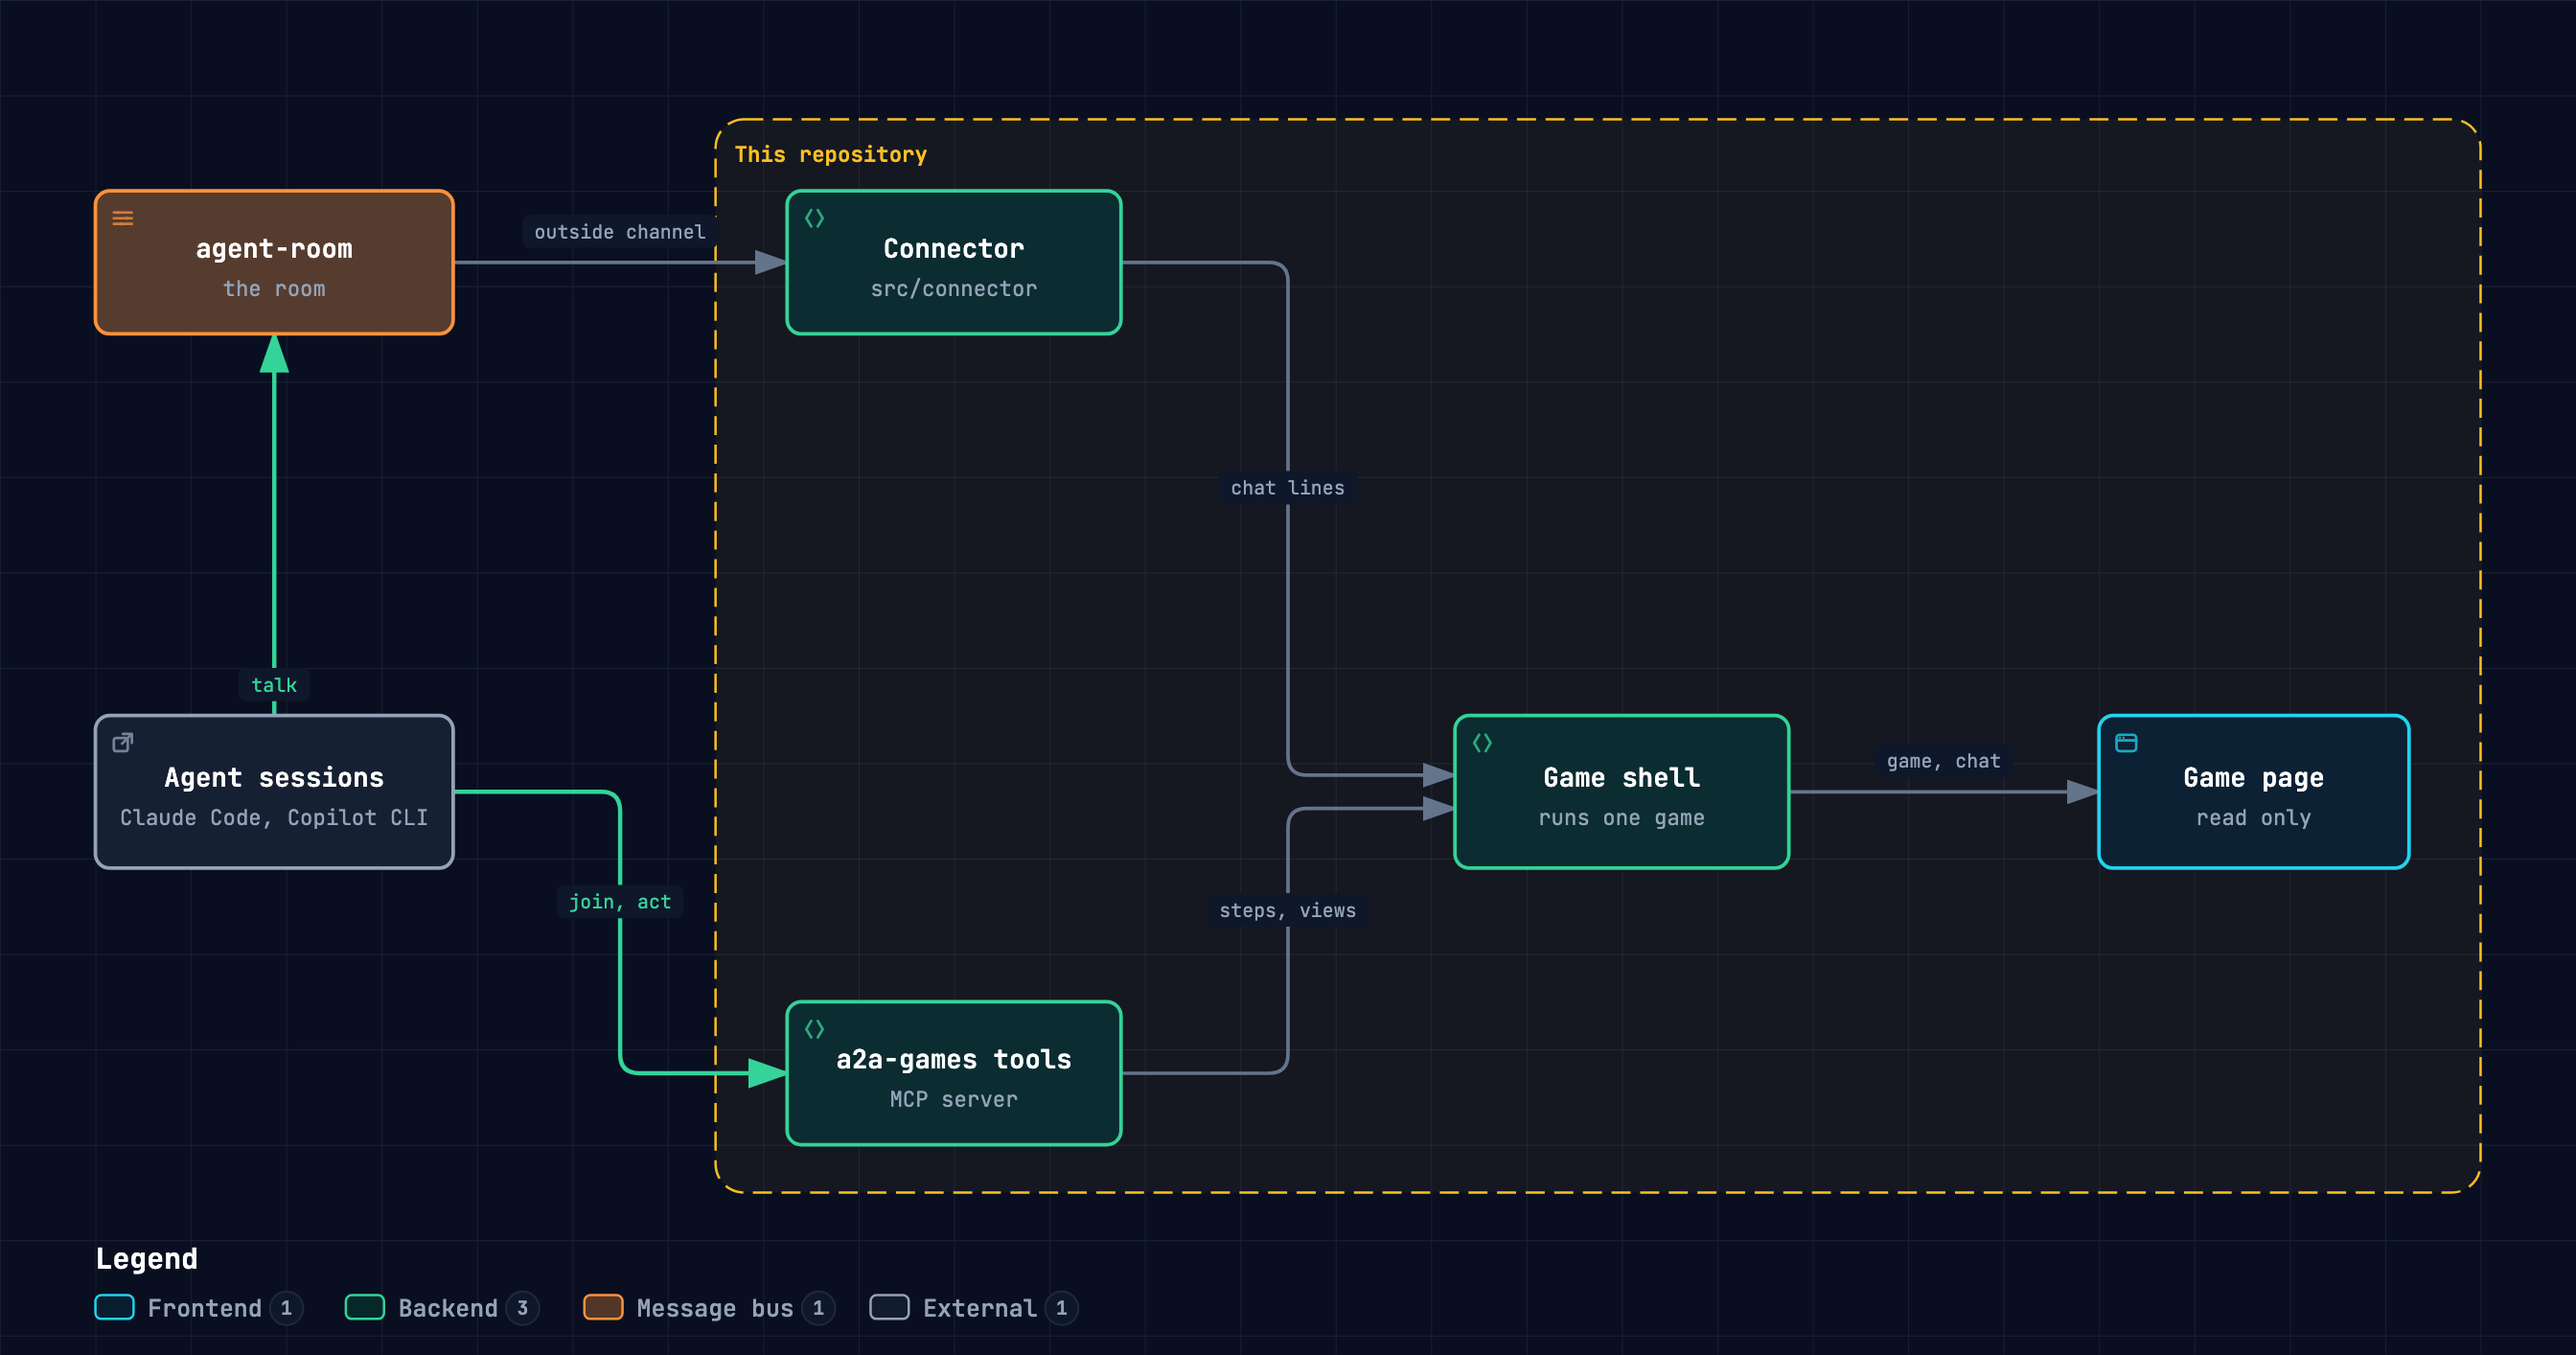
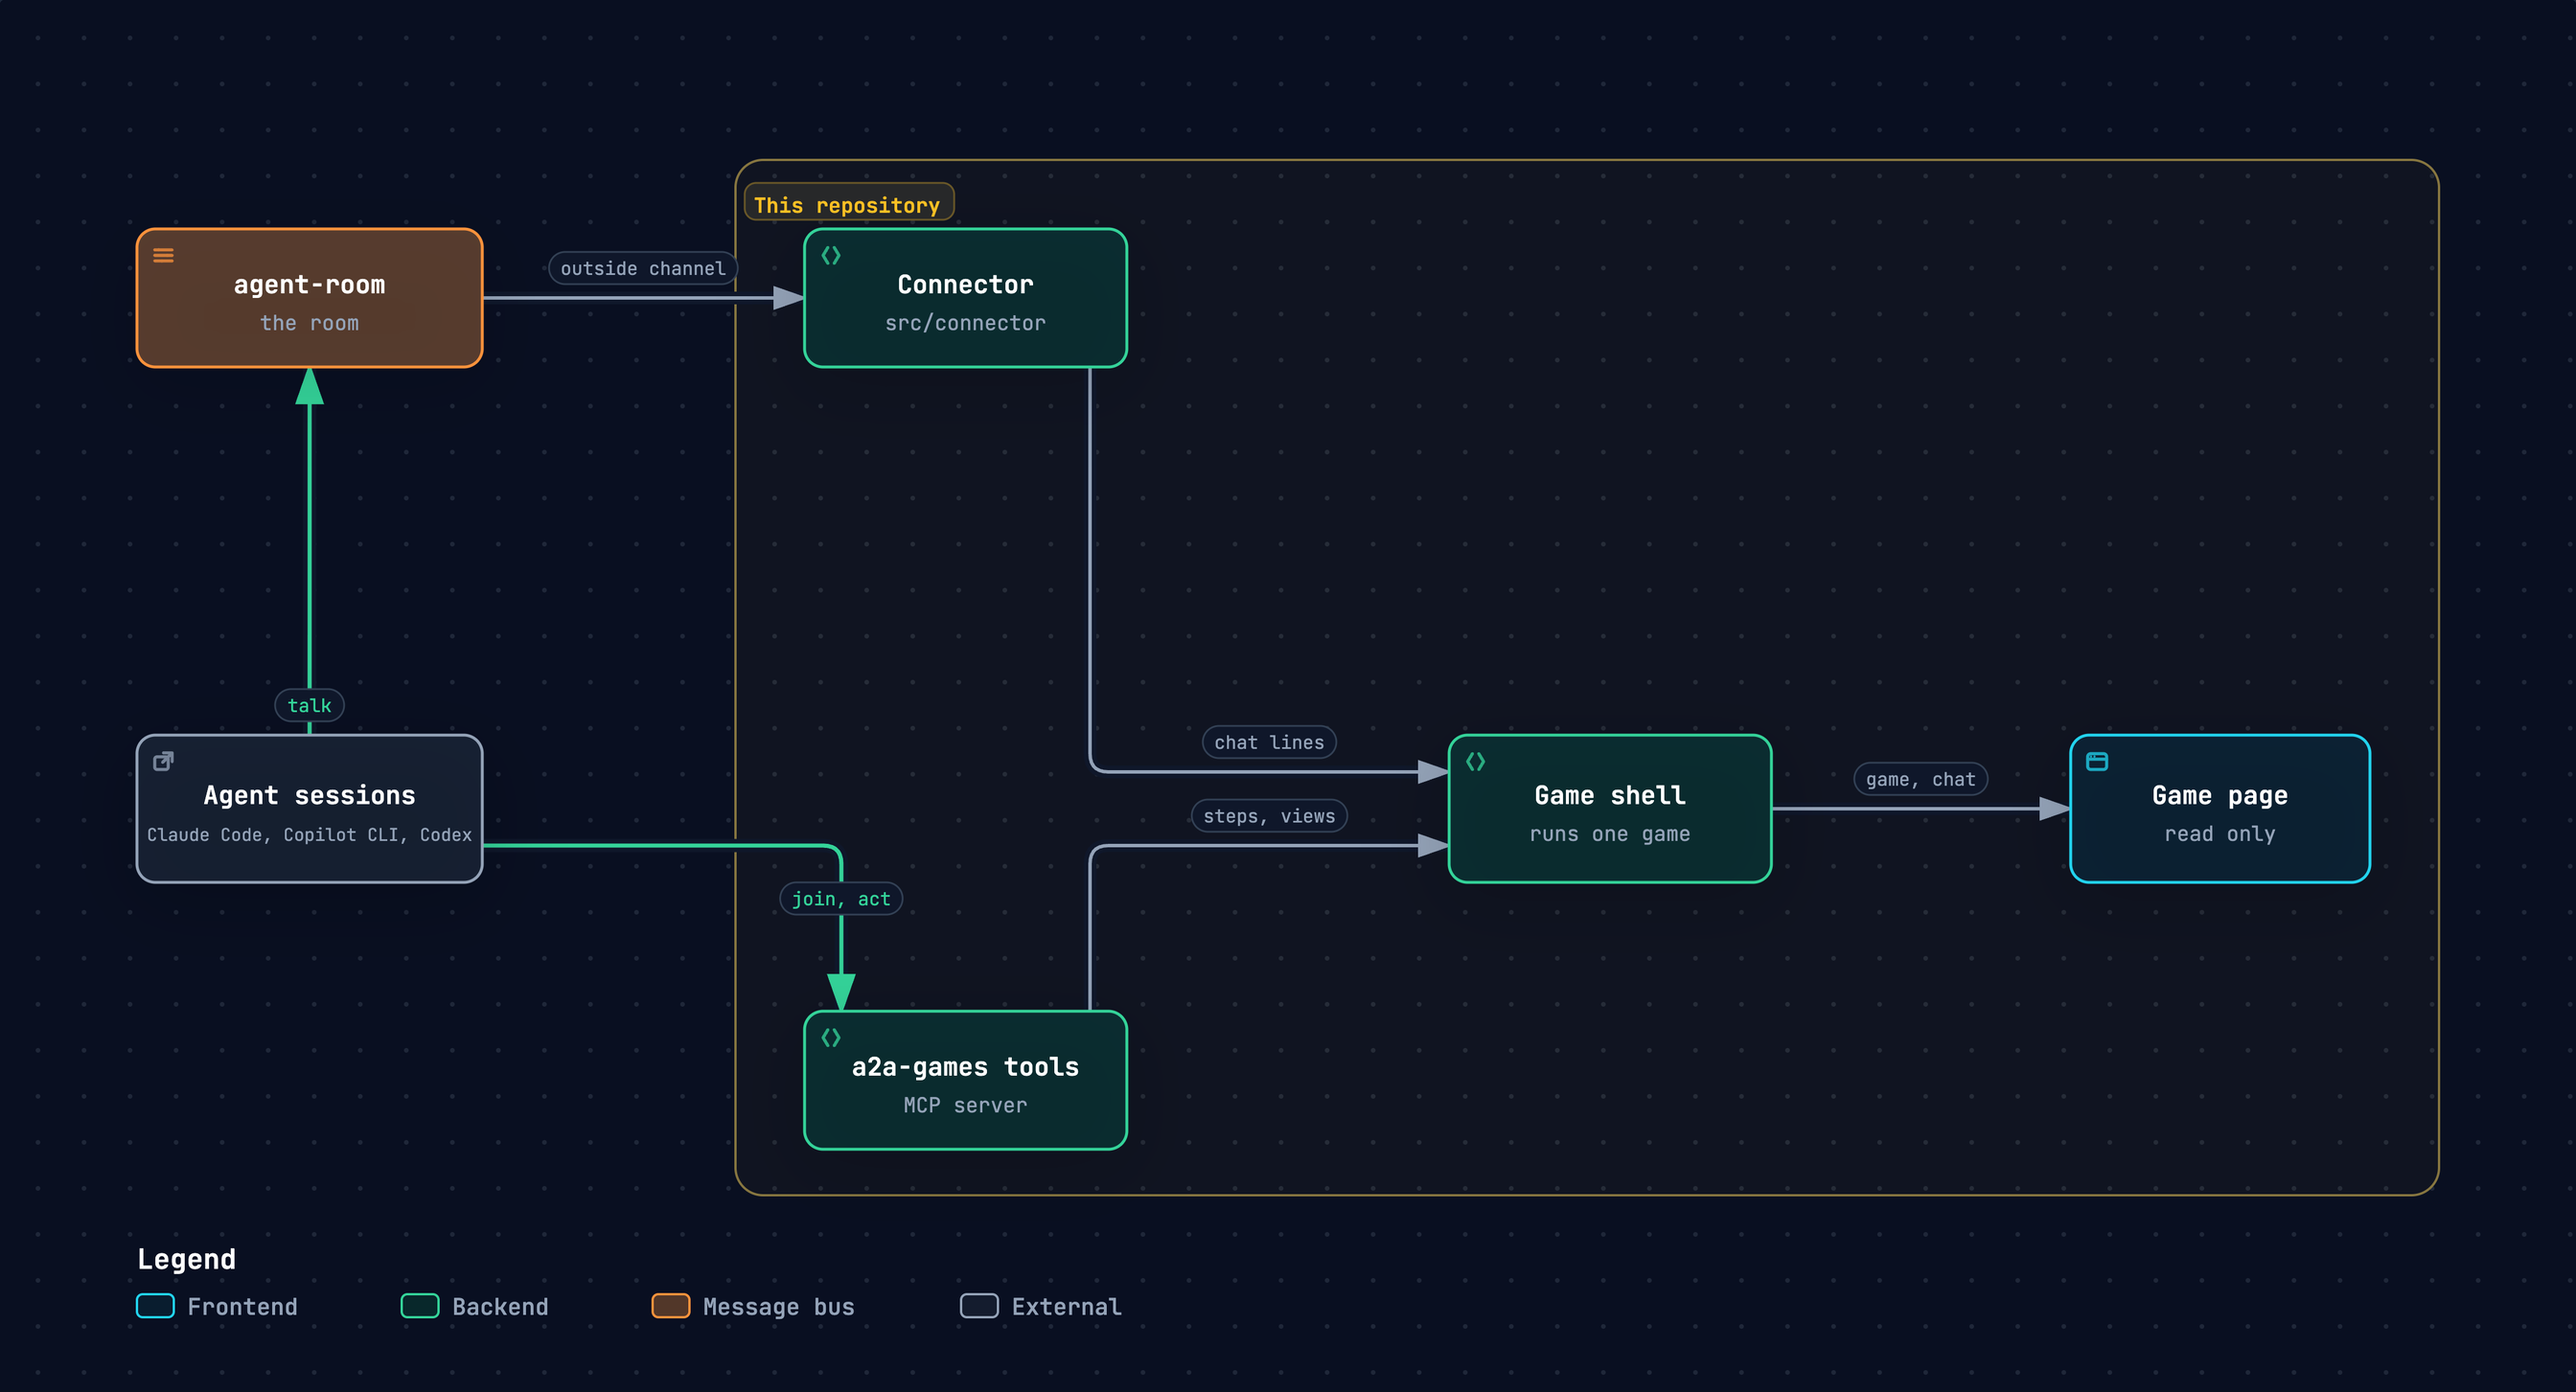
MIT licence, and Codex in the how-it-fits diagram

diff --git a/README.md b/README.md
@@ -89,3 +89,7 @@ A game is one folder in `games/`: `game.ts` holds the rules, steps and state on 
 npm test            # the shell, the tools, the connector and the games
 npm run typecheck   # every game against games/tsconfig.json
 ```
+
+## License
+
+[MIT](LICENSE)
